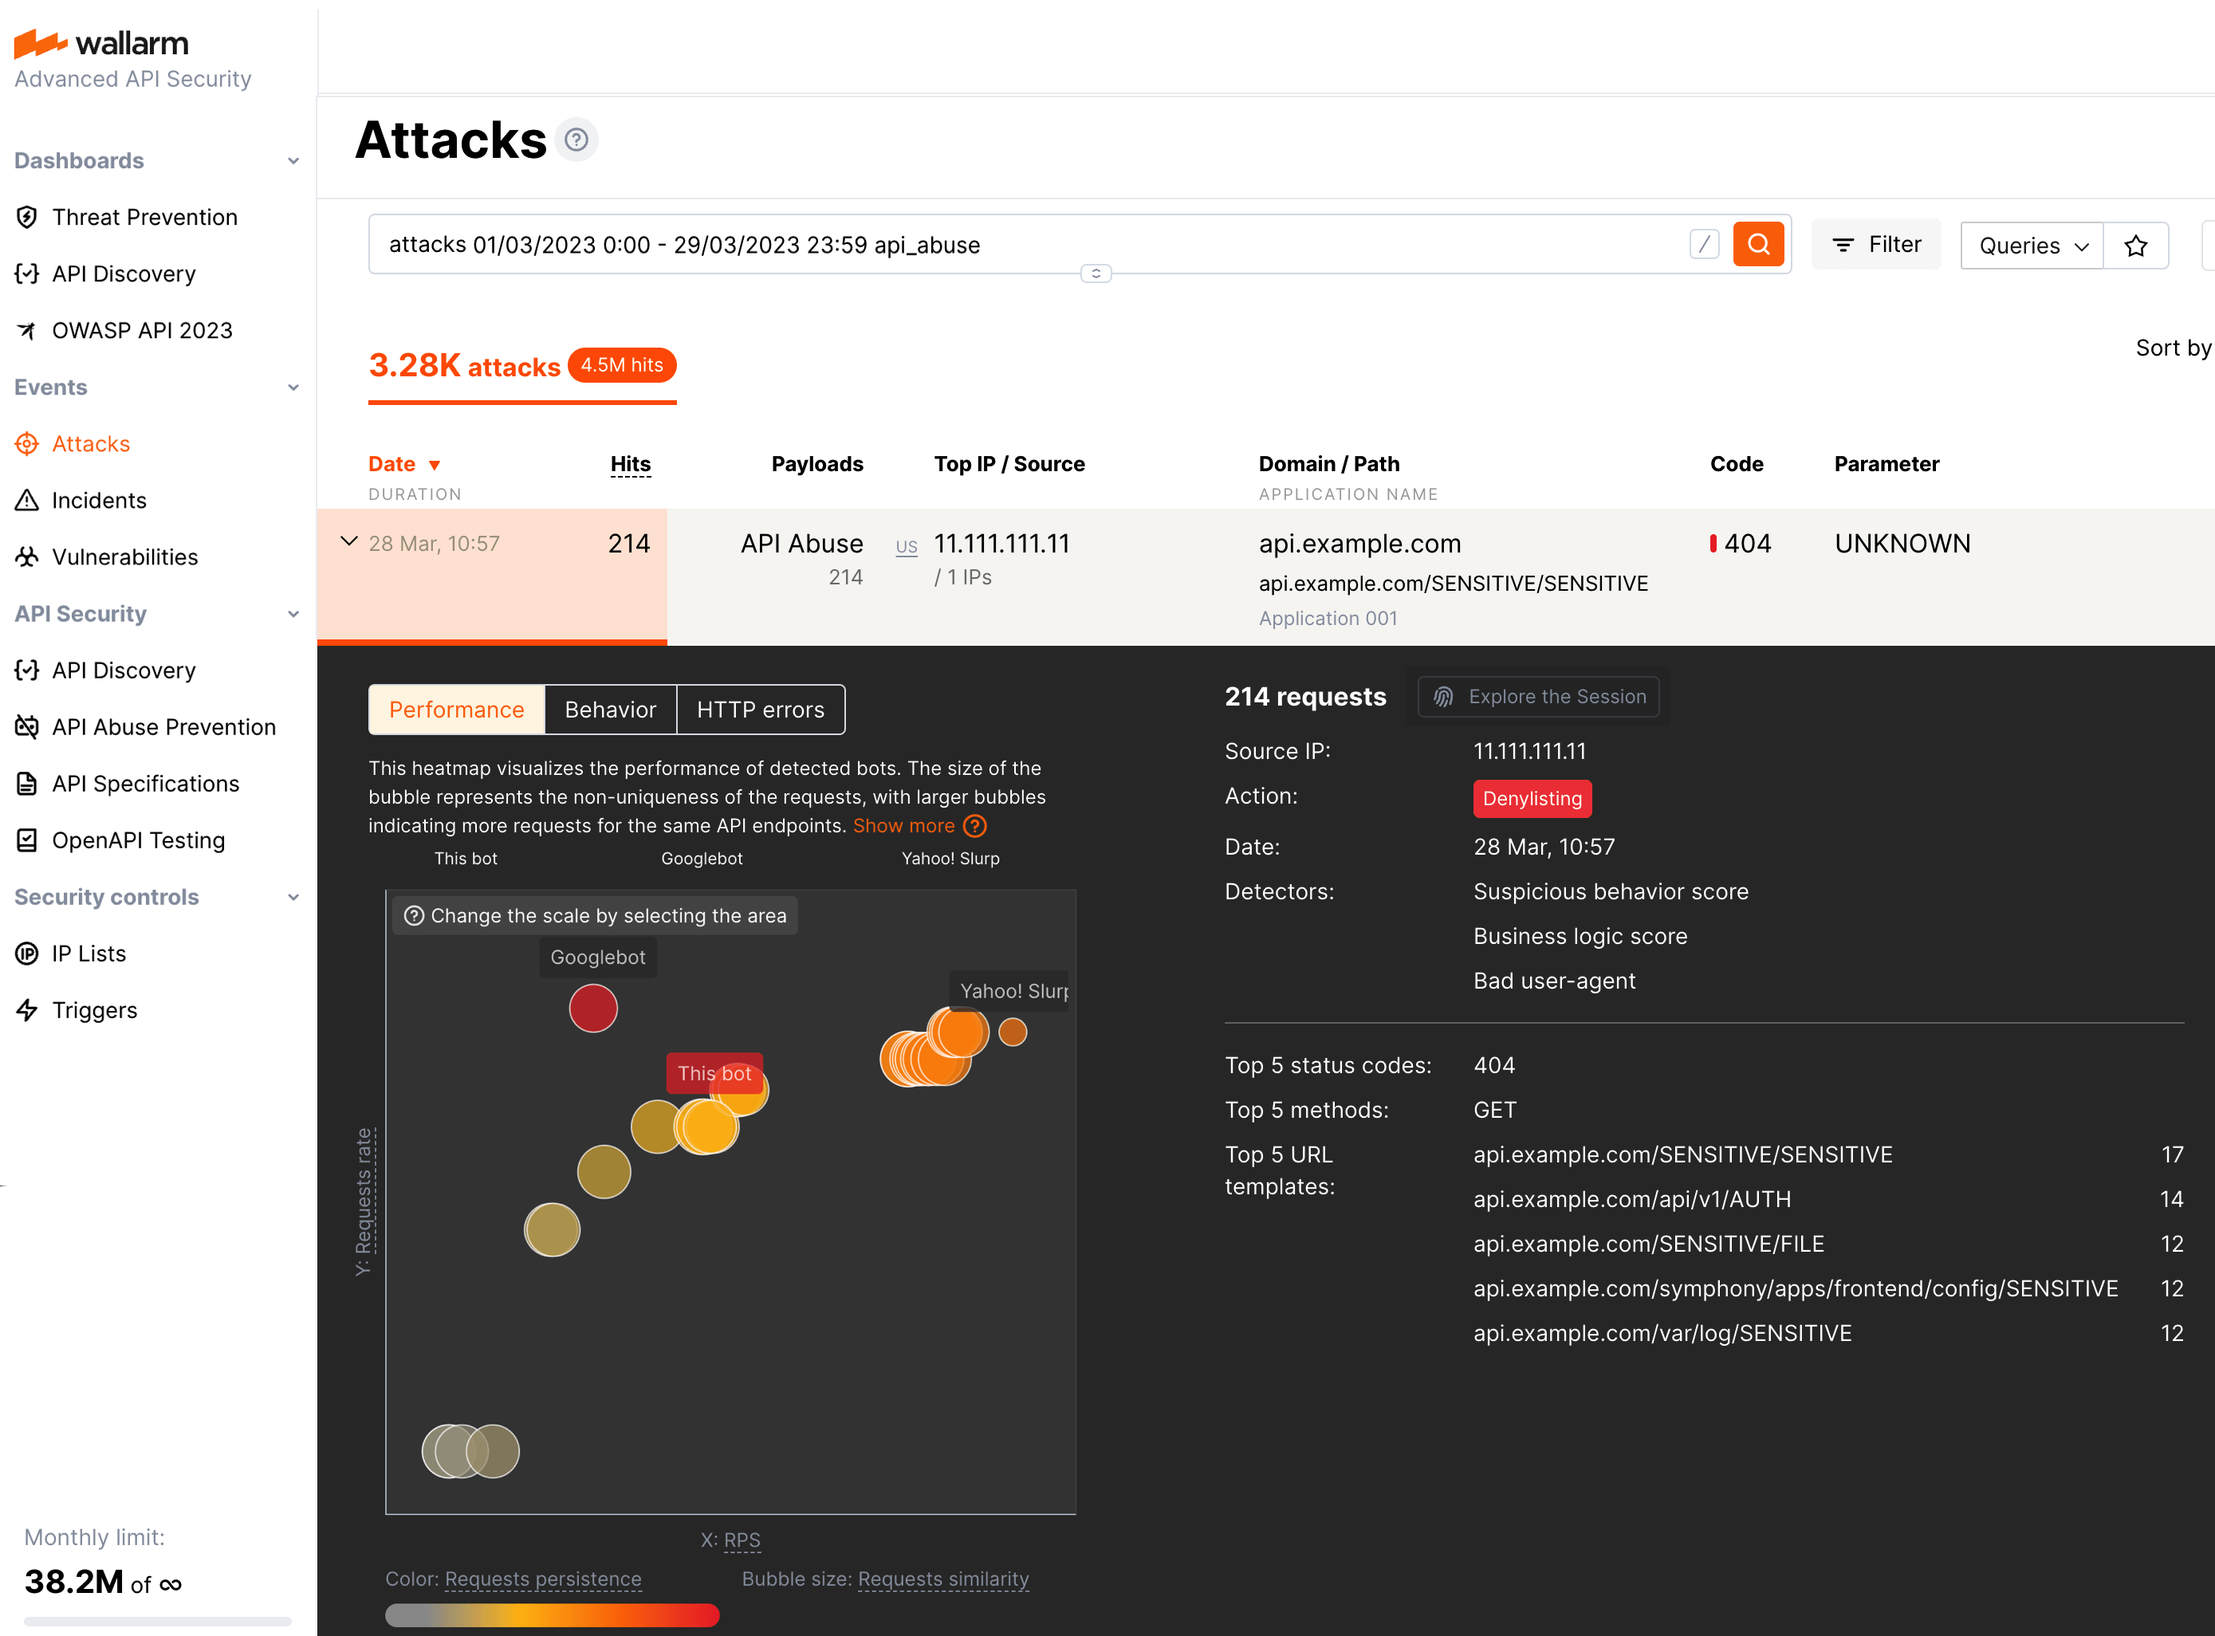
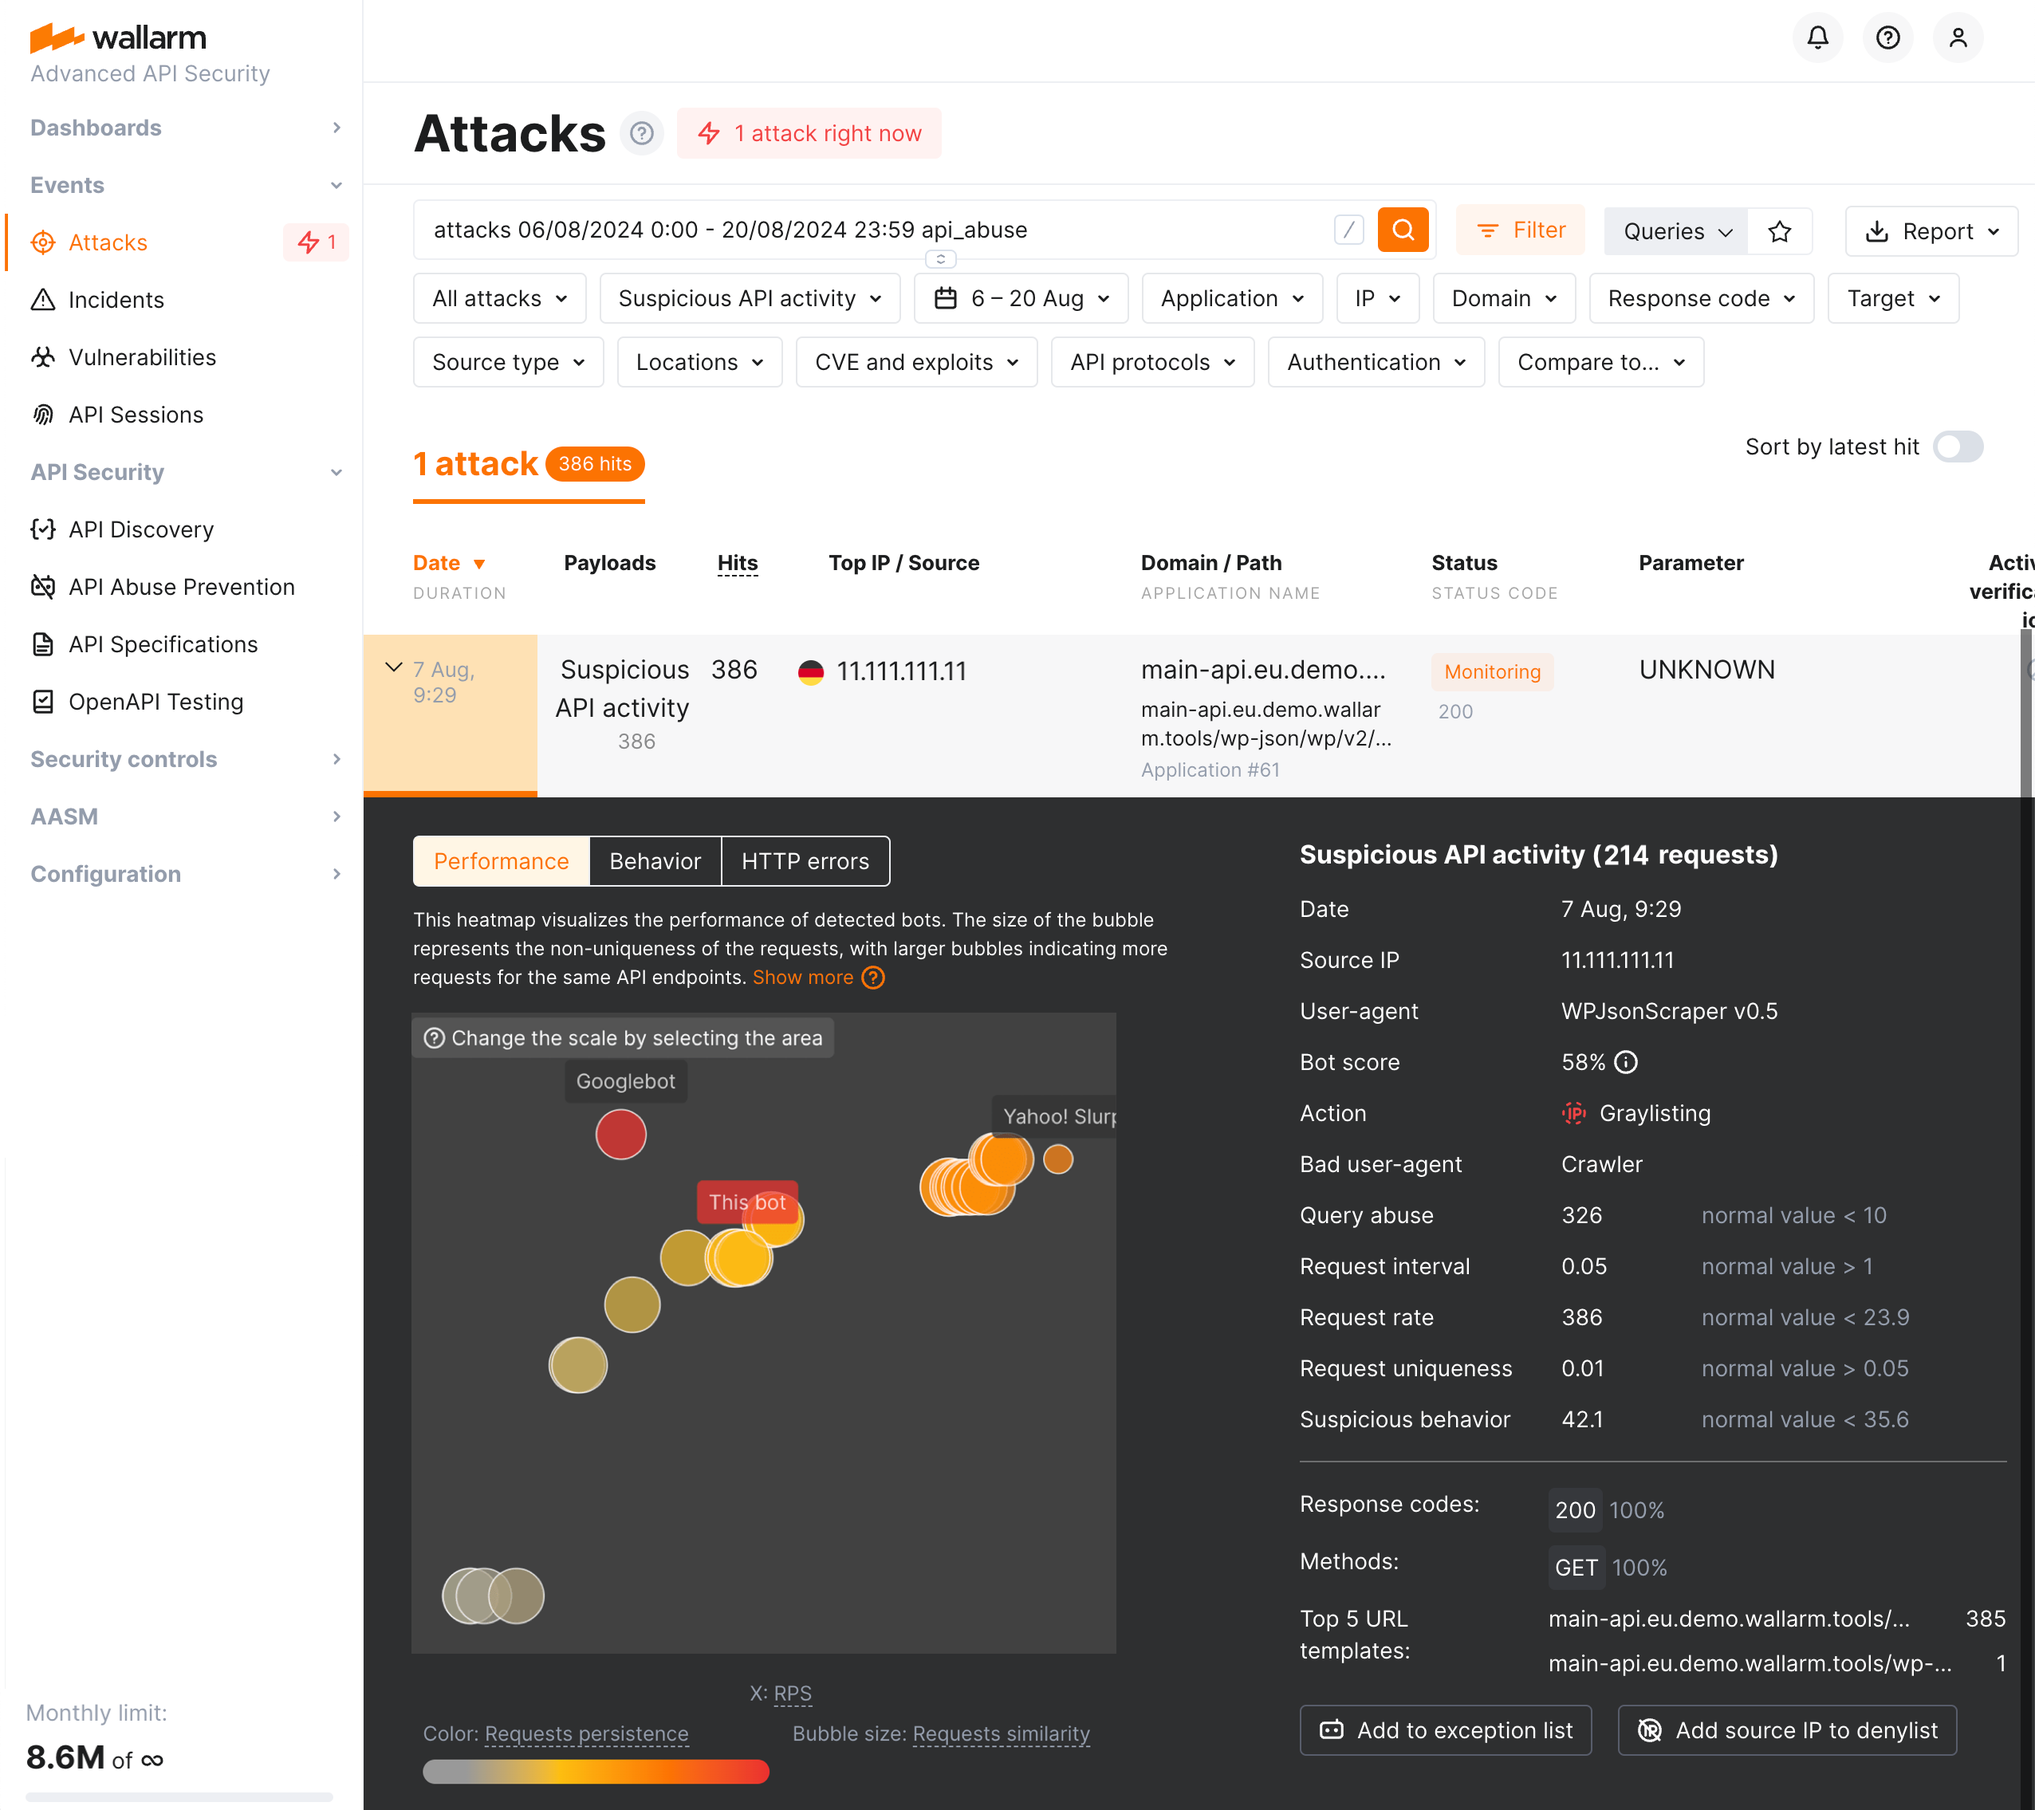
DOCS-2519 API abuse triggered detectors

diff --git a/docs/latest/api-abuse-prevention/exploring-bots.md b/docs/latest/api-abuse-prevention/exploring-bots.md
@@ -16,6 +16,12 @@ You can explore attacks performed by bots in Wallarm Console → **Attacks** sec
 
 ![API Abuse events](../images/about-wallarm-waf/abi-abuse-prevention/api-abuse-events.png)
 
+**Detector values**
+
+Pay your attention to the list of triggered [detectors](overview.md#how-api-abuse-prevention-works) and their values showing how big the deviation from normal behavior is for particular anomalies. On the figure above, for example, they are **Query abuse** with the value `326` when normal is `< 10`, **Request interval** with the value `0.05` when normal is `> 1` and others.
+
+**Heatmaps**
+
 Bot information is visualized in three heatmaps. In all heatmaps, the bigger the bubble, the closer it to red color and to the right upper corner - the more reasons to consider this IP to be a bot.
 
 On the heatmaps, you can also compare you current bot (**this bot**) with the other bots that attacked the same application within the past 24 hours. If too many bots did that, only 30 most suspicious will be displayed.
